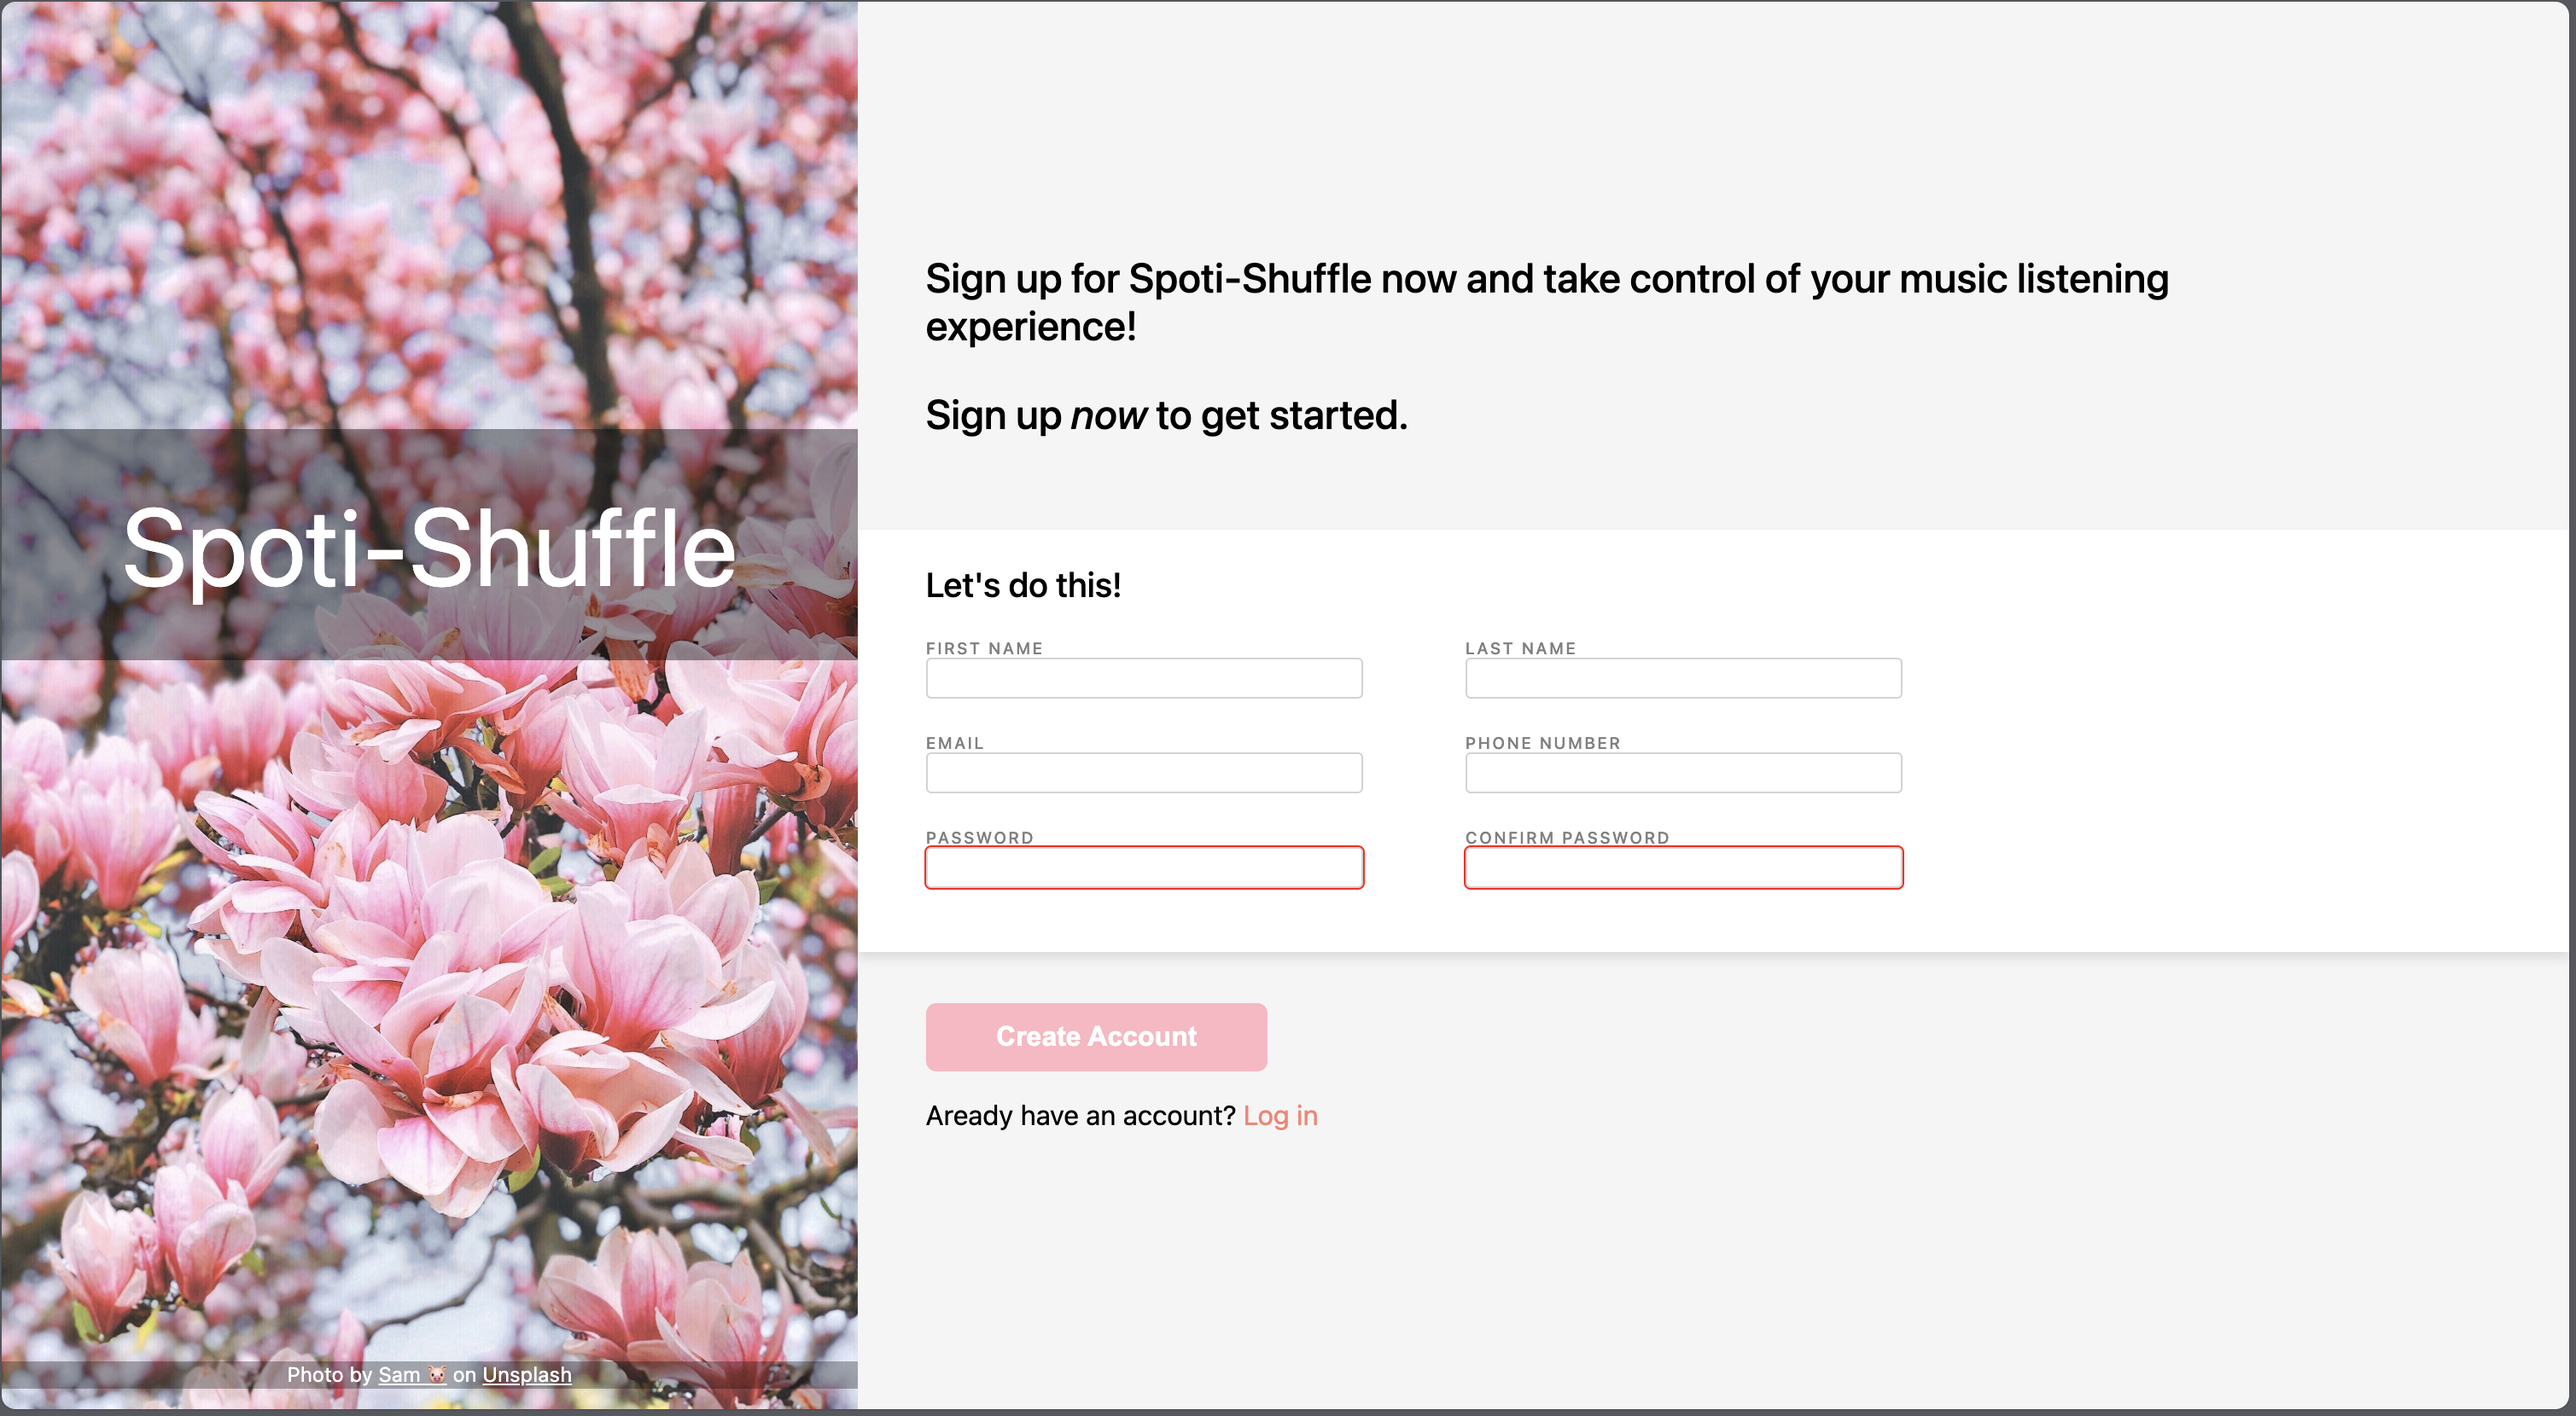
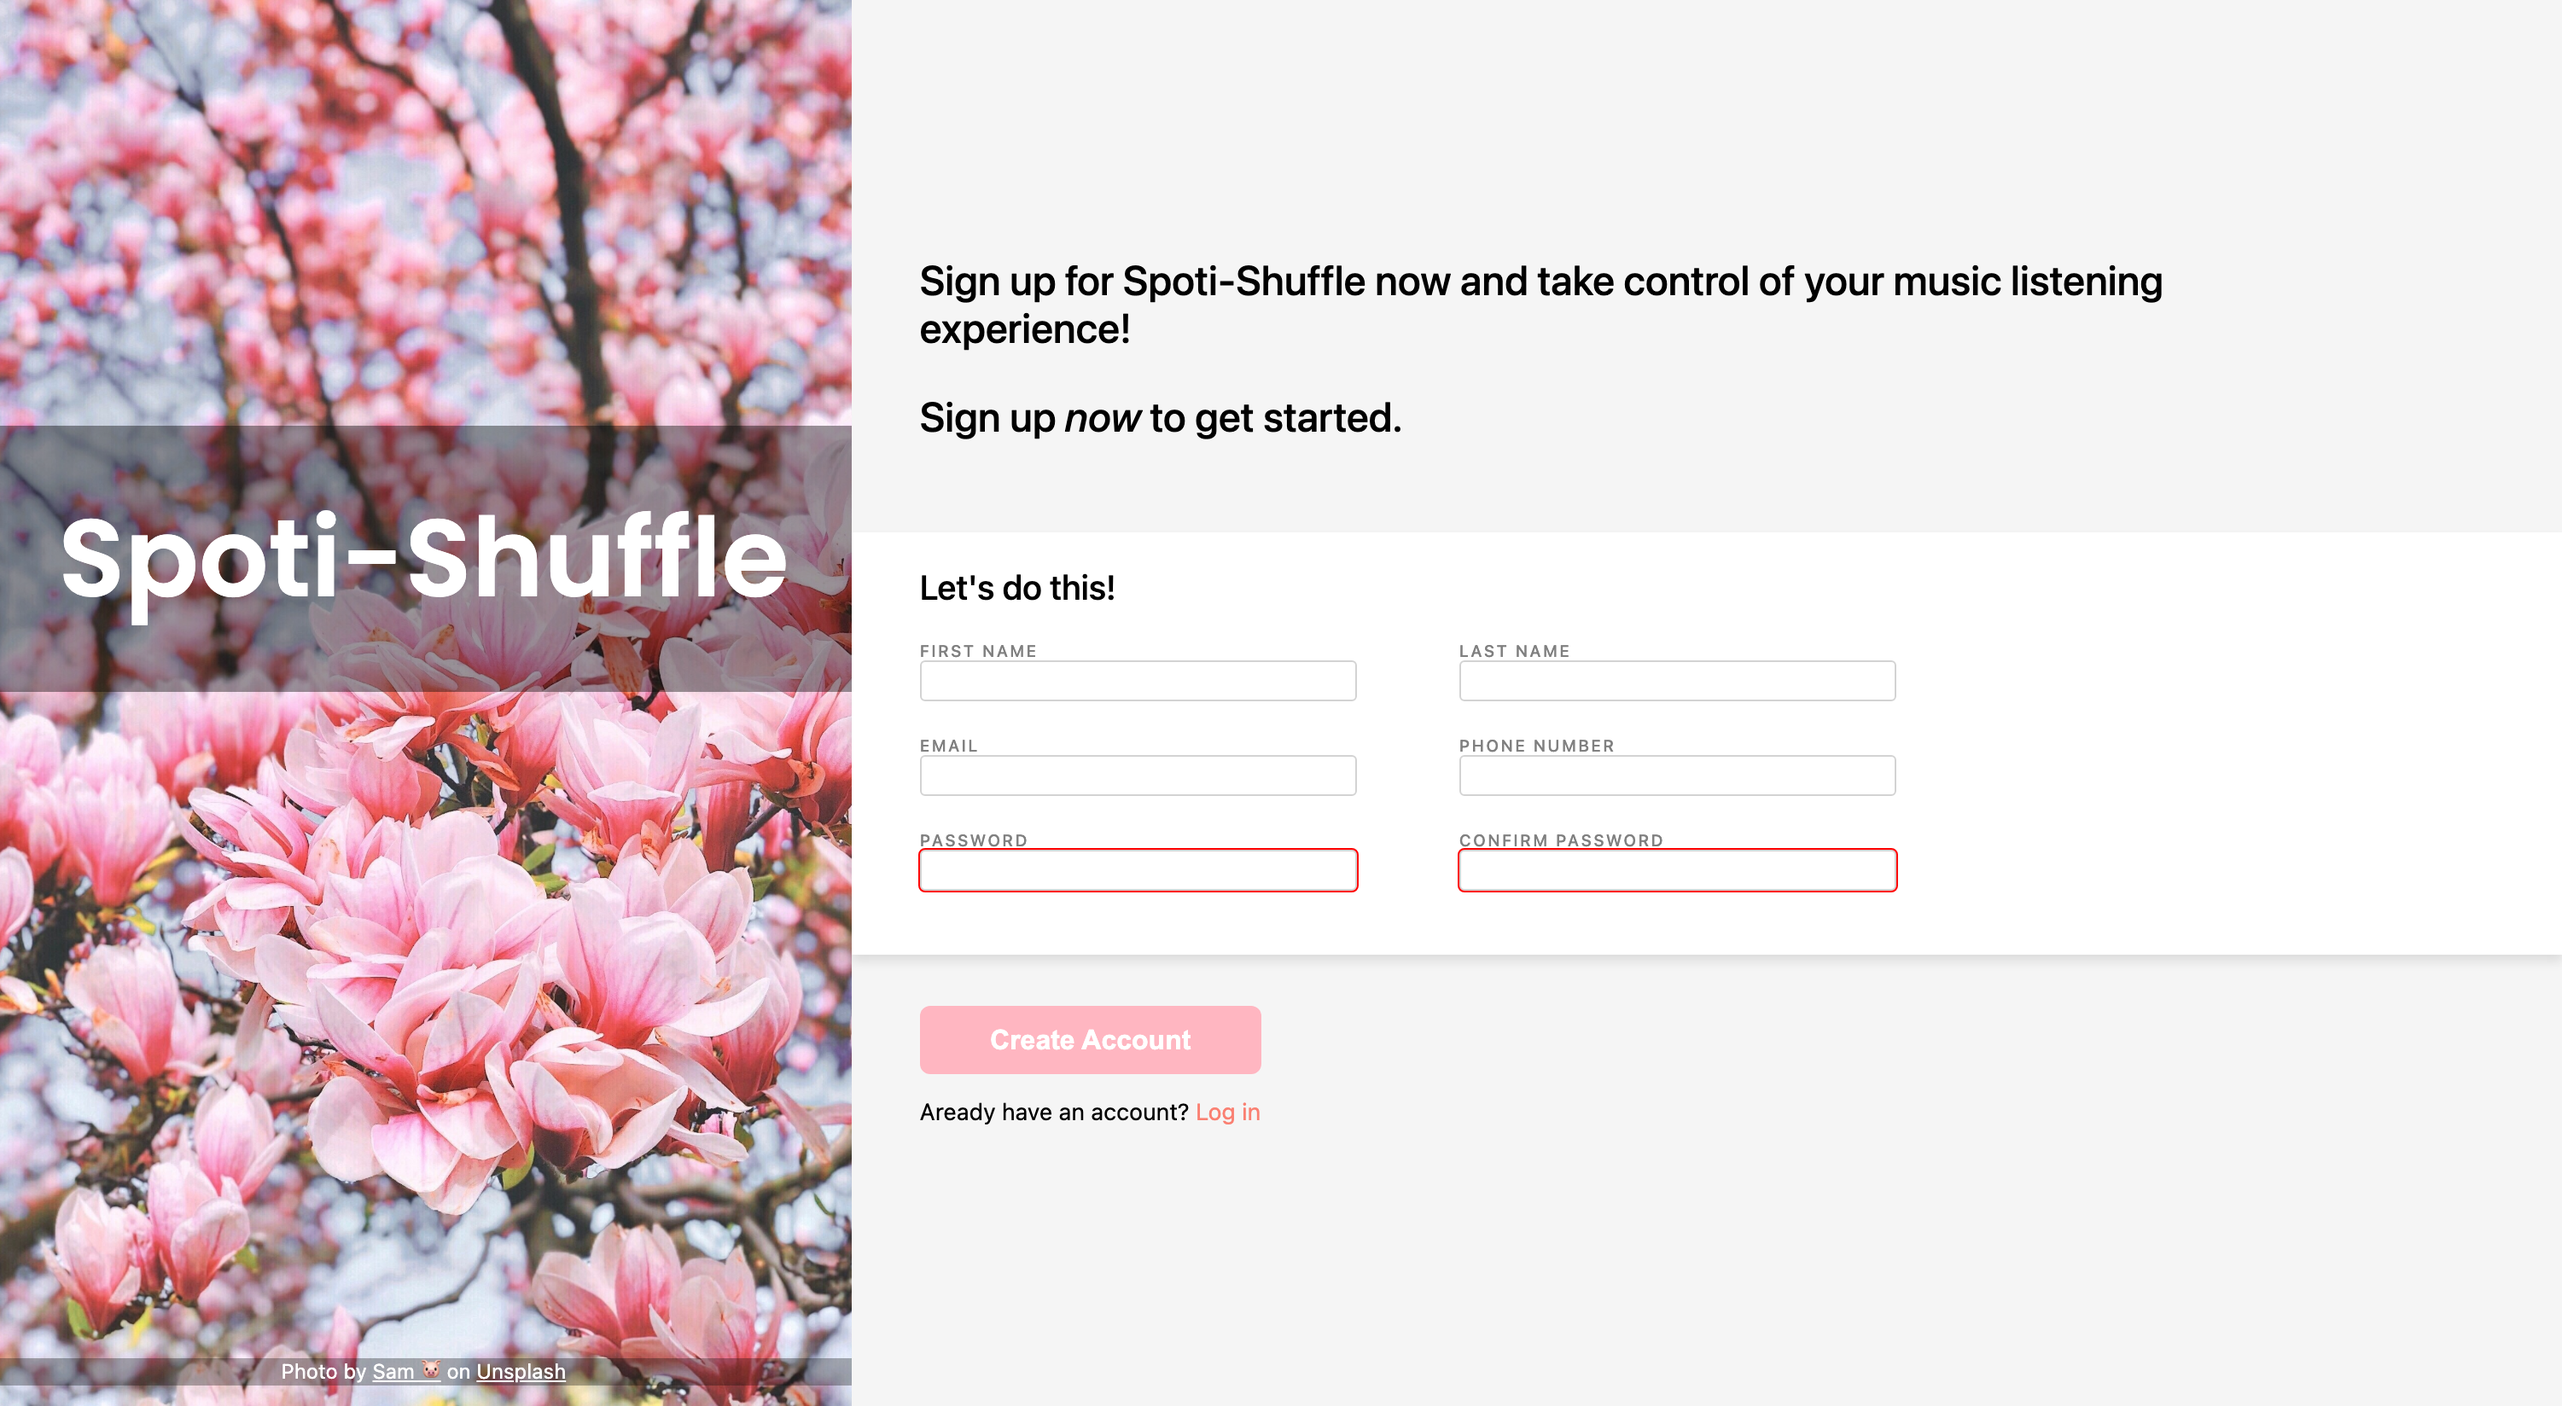
Updated title font

diff --git a/index.html b/index.html
@@ -3,6 +3,12 @@
   <head>
     <meta charset="UTF-8" />
     <meta name="viewport" content="width=device-width, initial-scale=1.0" />
+    <link rel="preconnect" href="https://fonts.googleapis.com" />
+    <link rel="preconnect" href="https://fonts.gstatic.com" crossorigin />
+    <link
+      href="https://fonts.googleapis.com/css2?family=Poppins:ital,wght@0,100;0,200;0,300;0,400;0,500;0,600;0,700;0,800;0,900;1,100;1,200;1,300;1,400;1,500;1,600;1,700;1,800;1,900&display=swap"
+      rel="stylesheet"
+    />
     <link rel="stylesheet" href="styles.css" />
     <title>Document</title>
   </head>
@@ -33,7 +39,7 @@
           <section class="form-header">
             Sign up for Spoti-Shuffle now and take control of your music
             listening experience!
-            <p> Sign up <em>now</em> to get started.</p>
+            <p>Sign up <em>now</em> to get started.</p>
           </section>
           <section class="form-body">
             <p>Let's do this!</p>
@@ -54,17 +60,34 @@
               </div>
               <div class="input-bundle">
                 <label for="phone_number">PHONE NUMBER</label>
-                <input type="text" minlength="10" maxlength="10" id="phone_number" />
+                <input
+                  type="text"
+                  minlength="10"
+                  maxlength="10"
+                  id="phone_number"
+                />
               </div>
             </div>
             <div class="input-line">
               <div class="input-bundle">
                 <label for="password" id="password">PASSWORD</label>
-                <input type="text" minlength="8" maxlength="255" id="password" required/>
+                <input
+                  type="text"
+                  minlength="8"
+                  maxlength="255"
+                  id="password"
+                  required
+                />
               </div>
               <div class="input-bundle">
                 <span>CONFIRM PASSWORD</span>
-                <input type="text" minlength="8" maxlength="255" id="confirm_password" required/>
+                <input
+                  type="text"
+                  minlength="8"
+                  maxlength="255"
+                  id="confirm_password"
+                  required
+                />
               </div>
             </div>
           </section>

diff --git a/styles.css b/styles.css
@@ -36,6 +36,8 @@ a {
     margin: 50% 0;
     background-color: rgba(0, 0, 0, 0.4);
     color: white;
+    font-family: "Poppins";
+    font-weight: 600;
     font-size: 4rem;
     padding: 30px 0;
   }
@@ -129,6 +131,7 @@ a {
 
     .form-submit {
       padding-top: 30px;
+      font-size: 0.85rem;
 
       .submit {
         display: flex;

diff --git a/README.md b/README.md
@@ -1,2 +1,2 @@
 # sign-up-form
-![completed form](assets/image.png)
+![form image](assets/image.png)
